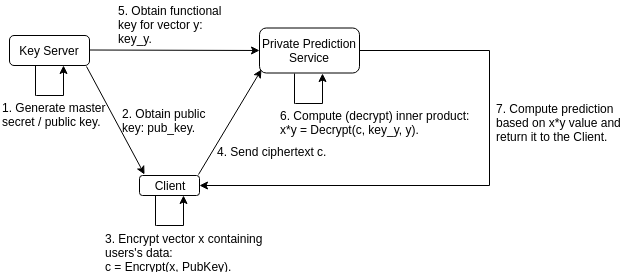
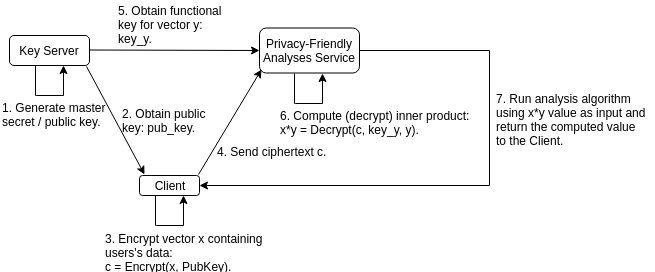
README fixes

diff --git a/README.md b/README.md
@@ -1,28 +1,27 @@
-# Private Prediction Services
+# Privacy-Friendly Analyses Services
 
-This repository demonstrates the centralized Functional Encryption setup (an alternative is a decentralized version where no central authority is needed for key generation).
+This repository demonstrates a centralized Functional Encryption setup (an alternative is a decentralized version where no central authority is needed for key generation).
 
-![Private Prediction components](https://raw.githubusercontent.com/fentec-project/private-analyses/master/img/CDV.png)
+![Privacy-Friendly Analyses components](https://raw.githubusercontent.com/fentec-project/private-analyses/master/img/CDV.png)
 
 Demonstrator comprises three components:
 
  * Key Server: central authority component which generates keys.
 
- * Private Prediction as a Service: the user sends encrypted data to this component
-and obtains the prediction value computed based on the encrypted data. Computation of the predicted value is enabled by Functional Encryption keys which are obtained from the Key Server.
+ * Privacy-Friendly Analyses as a Service: the user sends encrypted data to this component and obtains the result of analysis computed using only encrypted data. Computation is enabled by Functional Encryption keys which are obtained from the Key Server.
 
  * Client: a component which obtains the public key from the Key Server, encrypts
-user’s data with the public key and sends it to the Private Prediction as a
+user’s data with the public key and sends it to the Privacy-Friendly Analyses as a
 Service component.
 
-Various prediction services will be added in the future. Currently, Private Prediction component contains a service to compute the 30-year risk of a general cardiovascular disease (CDV) based on the algorithm from [1], developed using the Framingham heart study [2].
+Various analysis services will be added in the future. Currently, Privacy-Friendly Analyses component contains a service to compute the 30-year risk of a general cardiovascular disease (CDV) based on the algorithm from [1], developed using the Framingham heart study [2].
 
 The Framingham heart study followed roughly 5,000 patients from Framingham, Massachusettes, for many decades starting in 1948. Later, other patients were included. The risk models are algorithms used to assess the risk of specific atherosclerotic CDV events (coronary heart disease, cerebrovascular disease, peripheral vascular disease, heart failure). Algorithms most often estimate the 10-year or 30-year CDV risk of an individual.
 
 The input parameters for algorithms are sex, age, total and high-density
 lipoprotein cholesterol, systolic blood pressure, treatment for hypertension, smoking, and diabetes status. The demonstrator shows how the risk score can be computed using only the encrypted values of the input parameters. 
 
-The user specifies the parameters in the Client program, and these are encrypted and sent to the Private Prediction as a Service component. Private Prediction computes the 30-year risk and returns it to the user.
+The user specifies the parameters in the Client program, and these are encrypted and sent to the Privacy-Friendly Analyses as a Service component. Privacy-Friendly Analyses component computes the 30-year risk and returns it to the user.
 
 ```
 x := data.NewVector([]*big.Int{isMaleInt, ageInt, systolicBPInt, totalChInt, hdlChInt, smokerInt, treatedBPInt, diabeticInt})
@@ -49,8 +48,7 @@ Client encrypts vector x using public key obtained from the Key Server:
 ciphertext, err := paillier.Encrypt(x, masterPubKey)
 ```
 
-Client then sends ciphertext to the Private Prediction component. Private
-Prediction beforehand obtained two functional encryption keys from the Key
+Client then sends ciphertext to the Privacy-Friendly Analyses component. Privacy-Friendly Analyses beforehand obtained two functional encryption keys from the Key
 Server: key to compute the inner-product of x and y1, and key to compute the
 inner-product of x and y2. Now it can compute the inner-products:
 
@@ -62,7 +60,7 @@ xy2, err := paillier.Decrypt(ciphertext, key2, y2)
 To obtain the actual values of inner-products both values need to be divided
 by 100 000 * 100 000. The algorithm then uses these two values to compute the risk. The risk value is returned to the Client. 
 
-Note that the Prediction component knows the risk, but does not know the user's data (sex, age, ... ).
+Note that the Privacy-Friendly Analyses component knows the risk, but does not know the user's data (sex, age, ... ).
 
 
 
